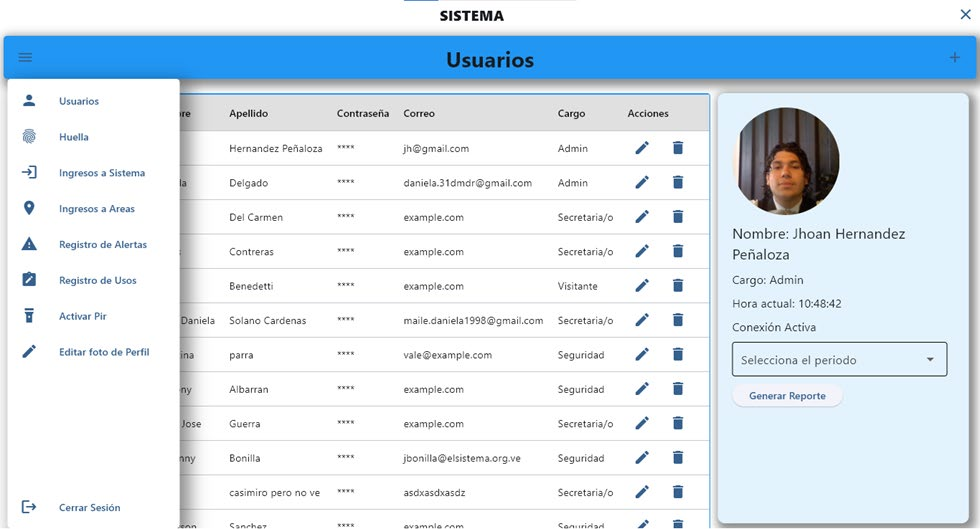
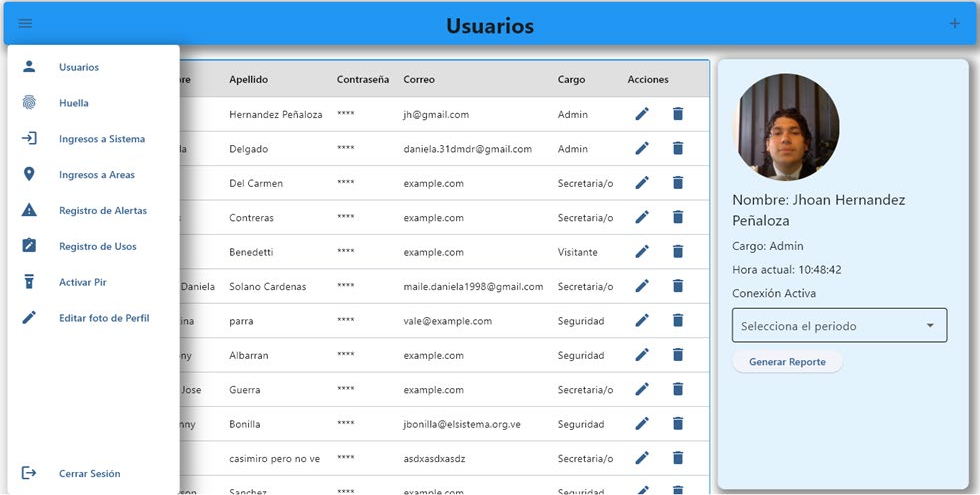
ulltimos cambios

diff --git a/assets/js/carousel.js b/assets/js/carousel.js
@@ -62,6 +62,17 @@
                     }
                 }
 
+                var $prev = $container.find(isMain ? '.carousel-prev' : '.inner-prev');
+                var $next = $container.find(isMain ? '.carousel-next' : '.inner-next');
+
+                if ($items.length <= itemsToShow) {
+                    $prev.hide();
+                    $next.hide();
+                } else {
+                    $prev.show();
+                    $next.show();
+                }
+
                 var $dots = $dotsContainer.find('.dot');
                 if ($dots.length && isMain) {
                     $dots.removeClass('active');
@@ -108,17 +119,27 @@
             });
 
             if (isMain) {
-                var autoPlayInterval = setInterval(function () {
-                    $container.find('.carousel-next').trigger('click');
-                }, 5000);
+                var autoPlayInterval = null;
 
-                $container.hover(function () {
-                    clearInterval(autoPlayInterval);
-                }, function () {
-                    autoPlayInterval = setInterval(function () {
-                        $container.find('.carousel-next').trigger('click');
-                    }, 5000);
-                });
+                var startAutoPlay = function () {
+                    if (!autoPlayInterval) {
+                        autoPlayInterval = setInterval(function () {
+                            $container.find('.carousel-next').trigger('click');
+                        }, 3000);
+                    }
+                };
+
+                var stopAutoPlay = function () {
+                    if (autoPlayInterval) {
+                        clearInterval(autoPlayInterval);
+                        autoPlayInterval = null;
+                    }
+                };
+
+                startAutoPlay();
+
+                $container.on('mouseenter', stopAutoPlay)
+                    .on('mouseleave', startAutoPlay);
             }
 
             setTimeout(updateCarousel, 150);

diff --git a/index.html b/index.html
@@ -273,9 +273,10 @@
 											</p>
 											<footer>
 												<ul class="actions">
-													<li><a href="#"
-															onclick="window.open('https://github.com/edison-devs/espe8266-v3', '_blank'); window.open('https://github.com/Jhoan130702/interfaz_sistema_seguridad', '_blank'); return false;"
-															class="button alt">Ver más</a></li>
+													<li><a href="https://github.com/edison-devs/espe8266-v3"
+															target="_blank" class="button alt">Firmware ESP8266</a></li>
+													<li><a href="https://github.com/Jhoan130702/interfaz_sistema_seguridad"
+															target="_blank" class="button alt">Interfaz Desktop</a></li>
 												</ul>
 											</footer>
 										</section>
@@ -519,6 +520,7 @@
 	<script src="assets/js/main.js"></script>
 	<script src="assets/js/typing.js"></script>
 	<script src="assets/js/carousel.js"></script>
+
 
 </body>
 

diff --git a/assets/js/repo-opener.js b/assets/js/repo-opener.js
@@ -1,0 +1,4 @@
+function abrirRepositoriosEnTabs() {
+    window.open('https://github.com/edison-devs/espe8266-v3', '_blank');
+    window.open('https://github.com/Jhoan130702/interfaz_sistema_seguridad', '_blank');
+}
